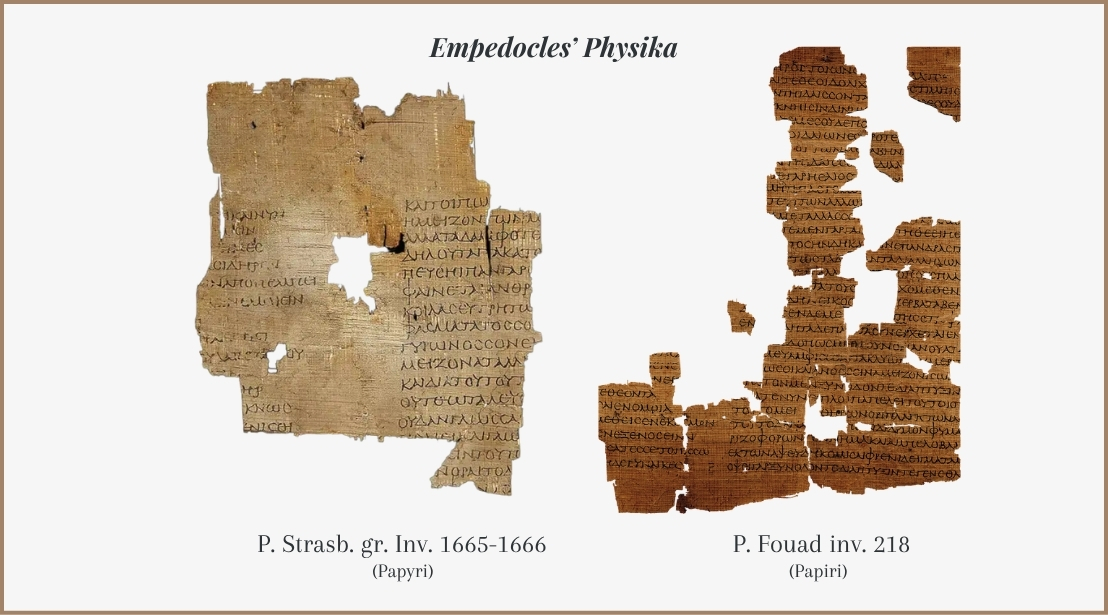
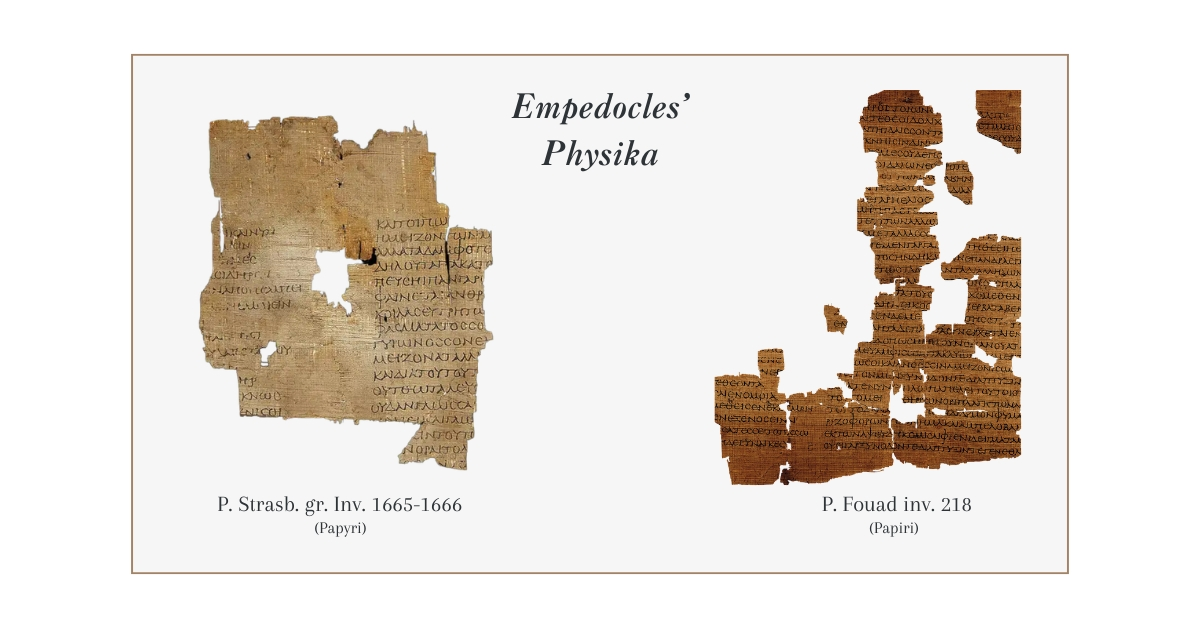
papyri jpg

Changed region(s): [[0.1227, 0.0618, 0.8899, 0.9577], [0.0, 0.0, 1.0, 1.0]]

diff --git a/content/en/essays/empedocles-papyri.md b/content/en/essays/empedocles-papyri.md
@@ -12,7 +12,7 @@ categories:
   - Ancient World
 description: "A newly identified papyrus fragment in Cairo turns out to be part of the same ancient scroll as the famous Strasbourg Empedocles — together, they give us the only surviving manuscript of the Physica."
 summary: "Nathan Carlig's identification of P.Fouad inv. 218 as a fragment of Empedocles' Physica reveals that the Cairo and Strasbourg papyri are two surviving pieces of a single ancient scroll — the only known manuscript copy of this lost philosophical poem."
-image: "/images/posts/empedocles-papyri/Empedocles_Physika_Papyri.png"
+image: "/images/posts/empedocles-papyri/Empedocles_Physika_Papyri.jpg"
 image_caption: "Fragmentary papyri of Empedocles' Physika (5th century BCE), among the oldest textual witnesses to Presocratic philosophy. Left: P. Strasb. gr. Inv. 1665-1666; Right: P. Fouad inv. 218. These papyri, recovered from Egyptian archaeological contexts, preserve portions of Empedocles' cosmological poem on the four roots (elements) and the cosmic forces of Love and Strife."
 relative: false
 ---

diff --git a/content/es/ensayos/empedocles-papiros.md b/content/es/ensayos/empedocles-papiros.md
@@ -11,7 +11,7 @@ tags:
 categories:
   - Mundo Antiguo
 summary: "Un fragmento de papiro identificado recientemente en El Cairo resulta ser parte del mismo rollo antiguo que el famoso Empédocles de Estrasburgo."
-image: "/images/posts/empedocles-papiros/Empedocles_Physika_Papyri_es.png"
+image: "/images/posts/empedocles-papiros/Empedocles_Physika_Papyri_es.jpg"
 image_caption: "Papiros fragmentarios de la Physika de Empédocles (siglo V a.C.), entre los testimonios textuales más antiguos de la filosofía presocrática. Izquierda: P. Strasb. gr. Inv. 1665-1666; Derecha: P. Fouad inv. 218. Estos papiros, recuperados de contextos arqueológicos egipcios, preservan porciones del poema cosmológico de Empédocles sobre las cuatro raíces (elementos) y las fuerzas cósmicas del Amor y la Discordia."
 relative: false
 showToc: true